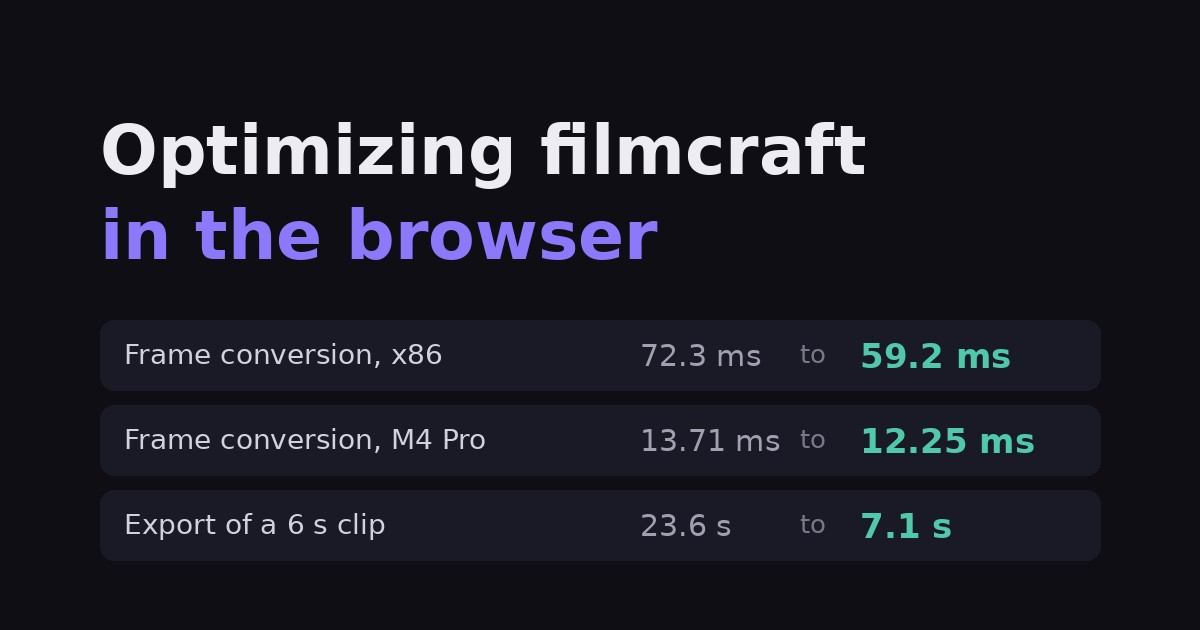
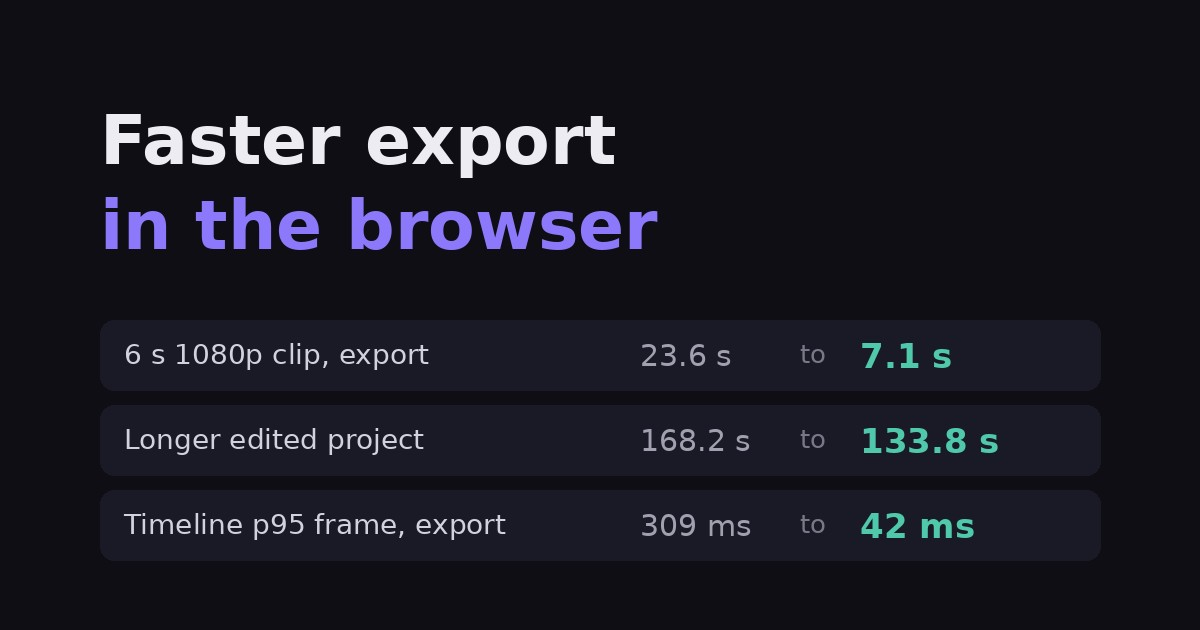
blog: filmcraft export results explainer (web export benchmark as centerpiece, new video)

diff --git a/blog/filmcraft-optimization-results/index.md b/blog/filmcraft-optimization-results/index.md
@@ -1,79 +1,97 @@
 ---
 keyword: filmcraft optimization
-title: filmcraft optimization in the browser, with before and after numbers
-description: A video on what we optimized in our filmcraft fork: WebAssembly SIMD frame conversion, decoding and hardware export, with before and after numbers.
+title: filmcraft optimization: faster export in the browser, with numbers
+description: Video and results for our filmcraft fork's faster browser export: a 6 second 1080p clip exports 3.3 times faster with the hardware encoder.
 date: 2026-10-16
 publish: true
 product: finalcap
-tags: [webassembly, simd, rust, benchmark]
+tags: [webassembly, webcodecs, rust, benchmark]
 hero: card.jpg
-heroAlt: Card listing three filmcraft results, frame conversion 72.3 to 59.2 ms on x86, 13.71 to 12.25 ms on Apple M4 Pro, and a 6 second export from 23.6 to 7.1 seconds
-properNouns: [WebAssembly, SIMD, YUV, RGBA, Apple, M4, Pro, H]
+heroAlt: Card listing three filmcraft export results, a 6 second clip from 23.6 to 7.1 seconds, a longer project from 168.2 to 133.8 seconds, and timeline frame time from 309 to 42 ms
+properNouns: [WebAssembly, WebCodecs, SIMD, YUV, RGBA, Apple, M4, Pro, Chrome, H, UI, OPFS, PSNR, SSIM]
 ---
-This is the filmcraft optimization story in one 86 second video. [filmcraft](https://github.com/storytold/filmcraft) is an open source video editor written in Rust that also runs in the browser, and our [fork](https://github.com/yishengjiang99/filmcraft) of it runs live at [grepawk.com/filmcraft](https://grepawk.com/filmcraft/). The video covers what we sped up, how, and the measured before and after numbers, each with its source.
+This is the filmcraft optimization story in one 87 second video, centered on export. [filmcraft](https://github.com/storytold/filmcraft) is an open source video editor written in Rust that also runs in the browser, and our [fork](https://github.com/yishengjiang99/filmcraft) of it runs live at [grepawk.com/filmcraft](https://grepawk.com/filmcraft/). The video shows the editor, then walks through the measured export results, each with its source.
 
 ```video
-src: filmcraft-optimization-results.mp4
-poster: filmcraft-optimization-poster.jpg
-title: filmcraft optimization results (1 minute 26 seconds)
-caption: Screen recording of the fork's web build, then before and after cards for frame conversion, decoding, export and the software encoder.
-duration: PT1M26S
+src: filmcraft-export-results.mp4
+poster: filmcraft-export-poster.jpg
+title: filmcraft export results (1 minute 27 seconds)
+caption: Screen recording of the live web build, then before and after cards for browser export and frame conversion.
+duration: PT1M27S
 ```
 
-The recording of the editor is the live web build, recorded in headless Chrome. The cards are drawn from the numbers below, nothing else.
+The editor footage is the live web build, recorded in headless Chrome and sped up. The cards are drawn only from the numbers below.
 
-## filmcraft optimization results at a glance
+## filmcraft optimization results: export
 
-| what | before | after | where it was measured |
-| --- | --- | --- | --- |
-| 1080p 4:2:0 frame to RGBA, WebAssembly | 72.3 ms | 59.2 ms (about 18% faster) | x86 virtual machine, 8 vCPU |
-| 1080p 4:2:0 frame to RGBA, WebAssembly | 13.71 ms | 12.25 ms (about 11% faster) | Apple M4 Pro, Node 22 |
-| 540p software decode per sample | 4.9 ms | 3.9 ms | x86 virtual machine, headless Chromium |
-| Export of a 6 second 1080p clip | 23.6 s | 7.1 s (3.3 times faster) | Apple M4 Pro, Chrome 155 |
-| Export of a longer 12 second edited project | 168.2 s | 133.8 s (1.26 times faster) | Apple M4 Pro, Chrome 155 |
-| Software H.264 encoder, 1080p frame, WebAssembly | 109 to 117 ms | 58 to 61 ms (1.9 times faster) | Node 22 |
-| Software H.264 encoder, 1080p frame, native | 79.8 ms | 45.7 ms (1.75 times faster) | Apple M4 Pro |
+The fork's export can use the browser's hardware H.264 encoder through WebCodecs, and it streams the output to disk instead of holding it all in memory. Before that, export used the built-in software encoder and a CPU compositor, with the output buffered in WebAssembly memory. The numbers come from the fork's [web export notes](https://github.com/yishengjiang99/filmcraft/blob/main/docs/benchmarks/web-export.md), measured at commit `7a02034c` (before) and `bd13e6c8` (after).
 
-## Faster frame conversion with WebAssembly SIMD
+How it was measured:
 
-Every video frame is decoded as YUV and has to become RGBA before the screen can draw it. The fork builds the web version with WebAssembly SIMD (`simd128`) and adds a conversion kernel that handles 4 pixels per step. Upstream's web build does not use SIMD. On the x86 virtual machine the median 4:2:0 frame went from 72.3 to 59.2 ms, and on an Apple M4 Pro from 13.71 to 12.25 ms. A checksum of every output frame matches across builds, so the pixels are identical.
+- Machine: Apple M4 Pro (14 cores, 24 GB), Chrome 155.0.8059.40, with hardware video encode and WebGPU.
+- Build: release, with `wasm-opt`, threaded.
+- Each run: a fresh tab, OPFS cleared, the timeline scrubbed every 500 ms during the export, so UI frame times are measured under load.
+- Output: H.264 at a pinned bitrate, 12 Mb/s at 1080p, variable rate.
+- Statistic: median of 3 measured runs after one discarded warmup. The longer project below is 2 measured runs.
+- Checks: every output was validated with ffprobe, A/V sync and PSNR and SSIM against a reference render.
 
-On the M4 Pro the SIMD flag alone changed nothing for upstream's code (13.71 ms against 13.77 ms), so the gain comes from the new kernel. More detail is in [the earlier benchmark post](https://grepawk.com/blog/filmcraft-wasm-simd-yuv-benchmark).
+### A 6 second 1080p clip
 
-## Decoding and the threaded build
+| | Software encoder (before) | Hardware encoder (after) |
+| --- | --- | --- |
+| Export time | 23.6 s | 7.1 s (3.3 times faster) |
+| Frames per second | 7.63 | 25.19 |
+| Share of real time | 0.25 | 0.84 |
+| Timeline 95th percentile frame time during export | 309 ms | 42 ms |
+| Long animation frame blocking time | 15 s | 0 s |
+| Encode time per 1080p frame | 99 ms | 9 ms |
+| Peak WebAssembly memory | 619 MiB | 533 MiB |
+| Y-PSNR against the reference | 47.48 dB | 48.09 dB |
 
-With the browser's software decoder on a 540p clip, the fork took 3.9 ms per sample against 4.9 ms for upstream, about 18% less. The threaded WebAssembly build is live too, and it loads in threaded mode on the site. We have not measured a speedup from it: on this clip it behaves like the single-threaded build. See [what the fork gains in WebAssembly](https://grepawk.com/blog/filmcraft-fork-webassembly-speedups) for the rest of that data.
+### A longer edited project
 
-## Faster export with the hardware encoder
+This project is 12 seconds of 1080p30 with 2 video tracks, 3 cuts, a cross-dissolve, a basic Lumetri color effect, a title, dialogue and music with fades.
 
-The fork's export can now use the browser's hardware H.264 encoder through WebCodecs, and it streams the output to disk instead of holding it all in memory. In Chrome 155 on an Apple M4 Pro, a 6 second 1080p clip took 23.6 seconds to export with the built-in software encoder and 7.1 seconds with the hardware encoder, 3.3 times faster. The encode cost per 1080p frame went from 99 ms to 9 ms.
+| | Before | After |
+| --- | --- | --- |
+| Export time | 168.2 s | 133.8 s (1.26 times faster) |
+| Peak WebAssembly memory | 1400 MiB | 981 MiB (about 30% less) |
+| Timeline 95th percentile frame time during export | 667 ms | 658 ms |
+| Time spent compositing on the CPU | 130.1 s | 128.4 s |
 
-A longer 12 second project with two video tracks, three cuts, a dissolve, a color effect, a title and music went from 168.2 to 133.8 seconds, 1.26 times faster. Most of that project's time is compositing on the CPU, which the encoder does not touch.
+The hardware encoder removes the encode cost, but this project is limited by compositing, which is now 96% of its export time. That is why the gain is 1.26 times instead of 3.3 times. The software encoder path is still available and its output is byte-identical to before.
 
-## Faster software encoder with SIMD
+## Frame conversion with WebAssembly SIMD
 
-The built-in software encoder stays as the fallback. Its hot loops now use portable 128-bit SIMD from the `wide` crate, and each one is bit-identical to the scalar code it replaces. For 1080p frames with the export's settings, the whole encoder went from 79.8 to 45.7 ms per frame natively on the M4 Pro (1.75 times) and from 109 to 117 ms down to 58 to 61 ms in WebAssembly under Node 22 (1.9 times). The output bytes are unchanged.
+Every decoded frame is YUV and has to become RGBA before the screen can draw it. The fork builds the web version with WebAssembly SIMD (`simd128`) and adds a conversion kernel that handles 4 pixels per step. A checksum of every output frame matches across builds, so the pixels are identical.
 
-## What is next
+| 1080p 4:2:0 frame to RGBA, median | Upstream | Fork |
+| --- | --- | --- |
+| x86 virtual machine, 8 vCPU | 72.3 ms | 59.2 ms (about 18% faster) |
+| Apple M4 Pro, Node 22 | 13.71 ms | 12.25 ms (about 11% faster) |
 
-Compositing on the GPU for export is in progress. There is no published benchmark for it yet, so the video makes no claim about it.
+On the M4 Pro, turning on the SIMD flag alone changed nothing for upstream's code (13.71 ms against 13.77 ms), so the gain comes from the new kernel. See [the earlier benchmark post](https://grepawk.com/blog/filmcraft-wasm-simd-yuv-benchmark) for the method. In the browser's software decoder, a 540p clip took 3.9 ms per sample against 4.9 ms for upstream, on the x86 machine; more in [what the fork gains in WebAssembly](https://grepawk.com/blog/filmcraft-fork-webassembly-speedups).
 
-## Limits of these numbers
+## A faster software encoder
 
-- The export numbers come from one Apple M4 Pro. The 6 second clip is the median of 3 measured runs after a warmup, and the longer project is 2 runs.
-- The frame conversion and decode numbers come from the x86 virtual machine and from the M4 Pro under Node, not from a browser on real hardware.
-- The software encoder numbers were measured under Node 22 and natively, not inside Chrome.
-- The live site was deployed before the export changes. They are on the fork's main branch and not in the live build yet.
+The built-in software encoder stays as the fallback. Its hot loops now use portable 128-bit SIMD from the `wide` crate, each bit-identical to the scalar code it replaces. For 1080p frames with the export's settings, the whole encoder went from 79.8 to 45.7 ms per frame natively on the M4 Pro (1.75 times), and from 109 to 117 ms down to 58 to 61 ms in WebAssembly under Node 22 (1.9 times). The output bytes are unchanged.
+
+## What is not covered
+
+- GPU compositing for export is in progress. There is no published benchmark for it, so this post makes no claim about it.
+- The export numbers come from one Apple M4 Pro. The software encoder numbers were measured under Node and natively, not inside Chrome.
+- The threaded build does not speed up export today: the longer project took 168.2 s threaded and 168.8 s single-threaded before the change.
+- The live site was redeployed on October 16 from the fork's main branch (`2ffd57e`), so it includes the changes above. In our recording, the Export panel has the hardware encoder option checked by default. I did not time exports on the live site itself.
 - Bundle size, startup time and 120 Hz displays were not tested.
 
-The raw numbers are in the fork's notes: [frame conversion](https://github.com/yishengjiang99/filmcraft/blob/main/docs/benchmarks/fork-vs-upstream.md), [playback and decode](https://github.com/yishengjiang99/filmcraft/blob/main/docs/benchmarks/playback.md), [web export](https://github.com/yishengjiang99/filmcraft/blob/main/docs/benchmarks/web-export.md) and the [software encoder](https://github.com/yishengjiang99/filmcraft/blob/main/crates/h264enc/README.md). For more on running video tools in the browser, see [FinalCap](https://grepawk.com/).
+The raw numbers are in the fork's notes: [web export](https://github.com/yishengjiang99/filmcraft/blob/main/docs/benchmarks/web-export.md), [frame conversion](https://github.com/yishengjiang99/filmcraft/blob/main/docs/benchmarks/fork-vs-upstream.md) and the [software encoder](https://github.com/yishengjiang99/filmcraft/blob/main/crates/h264enc/README.md). For more on video in the browser, see [FinalCap](https://grepawk.com/).
 
 ## Video transcript
 
-filmcraft is an open source video editor in Rust that runs in the browser. This video covers what we optimized in our fork, and the measured results. This is the fork's web build, live at grepawk.com/filmcraft. The work is in frame conversion, decoding and export.
+filmcraft is an open source video editor in Rust that runs in the browser. This video is about how much faster our fork exports video. This is the fork's web build, live at grepawk.com/filmcraft. Cut a clip, add effects and a title, then press Export.
 
-First, frame conversion. WebAssembly SIMD and a four pixel kernel cut a 1080p frame from 72 to 59 milliseconds on x86, and from 13.7 to 12.25 on an Apple M4 Pro. Software decode of a 540p clip takes 3.9 milliseconds a sample instead of 4.9. The threaded build is live too, but we have not measured a speedup from it.
+We timed export in Chrome 155 on an Apple M4 Pro. Each number is a median of three runs, with the timeline scrubbed during the export. Before the changes, a six second 1080p clip took 23.6 seconds to export, 17.9 of them in the software encoder. A longer edited project took 168 seconds.
 
-Then export. With the browser's hardware H.264 encoder, a six second 1080p clip exports in 7.1 seconds instead of 23.6. A longer edited project goes from 168 to 134 seconds. The software encoder, the fallback, uses portable SIMD too. A 1080p frame in WebAssembly takes 58 to 61 milliseconds instead of 109 to 117, with identical output bytes.
+With the browser's hardware H.264 encoder, the same clip exports in 7.1 seconds, 3.3 times faster. The timeline's 95th percentile frame time during export drops from 309 to 42 milliseconds. The longer project goes from 168 to 134 seconds, 1.26 times faster, and peak memory falls from 1,400 to 981 megabytes. It is now 96 percent CPU compositing.
 
-Next is GPU compositing. It is in progress, with no published benchmark yet. The live build predates the export changes, which are on the fork's main branch. Try it at grepawk.com/filmcraft.
+Outside export, WebAssembly SIMD cuts 1080p frame conversion from 72 to 59 milliseconds on x86, and from 13.7 to 12.25 on an Apple M4 Pro. GPU compositing is in progress, with no published benchmark yet. Try the editor live at grepawk.com/filmcraft.
